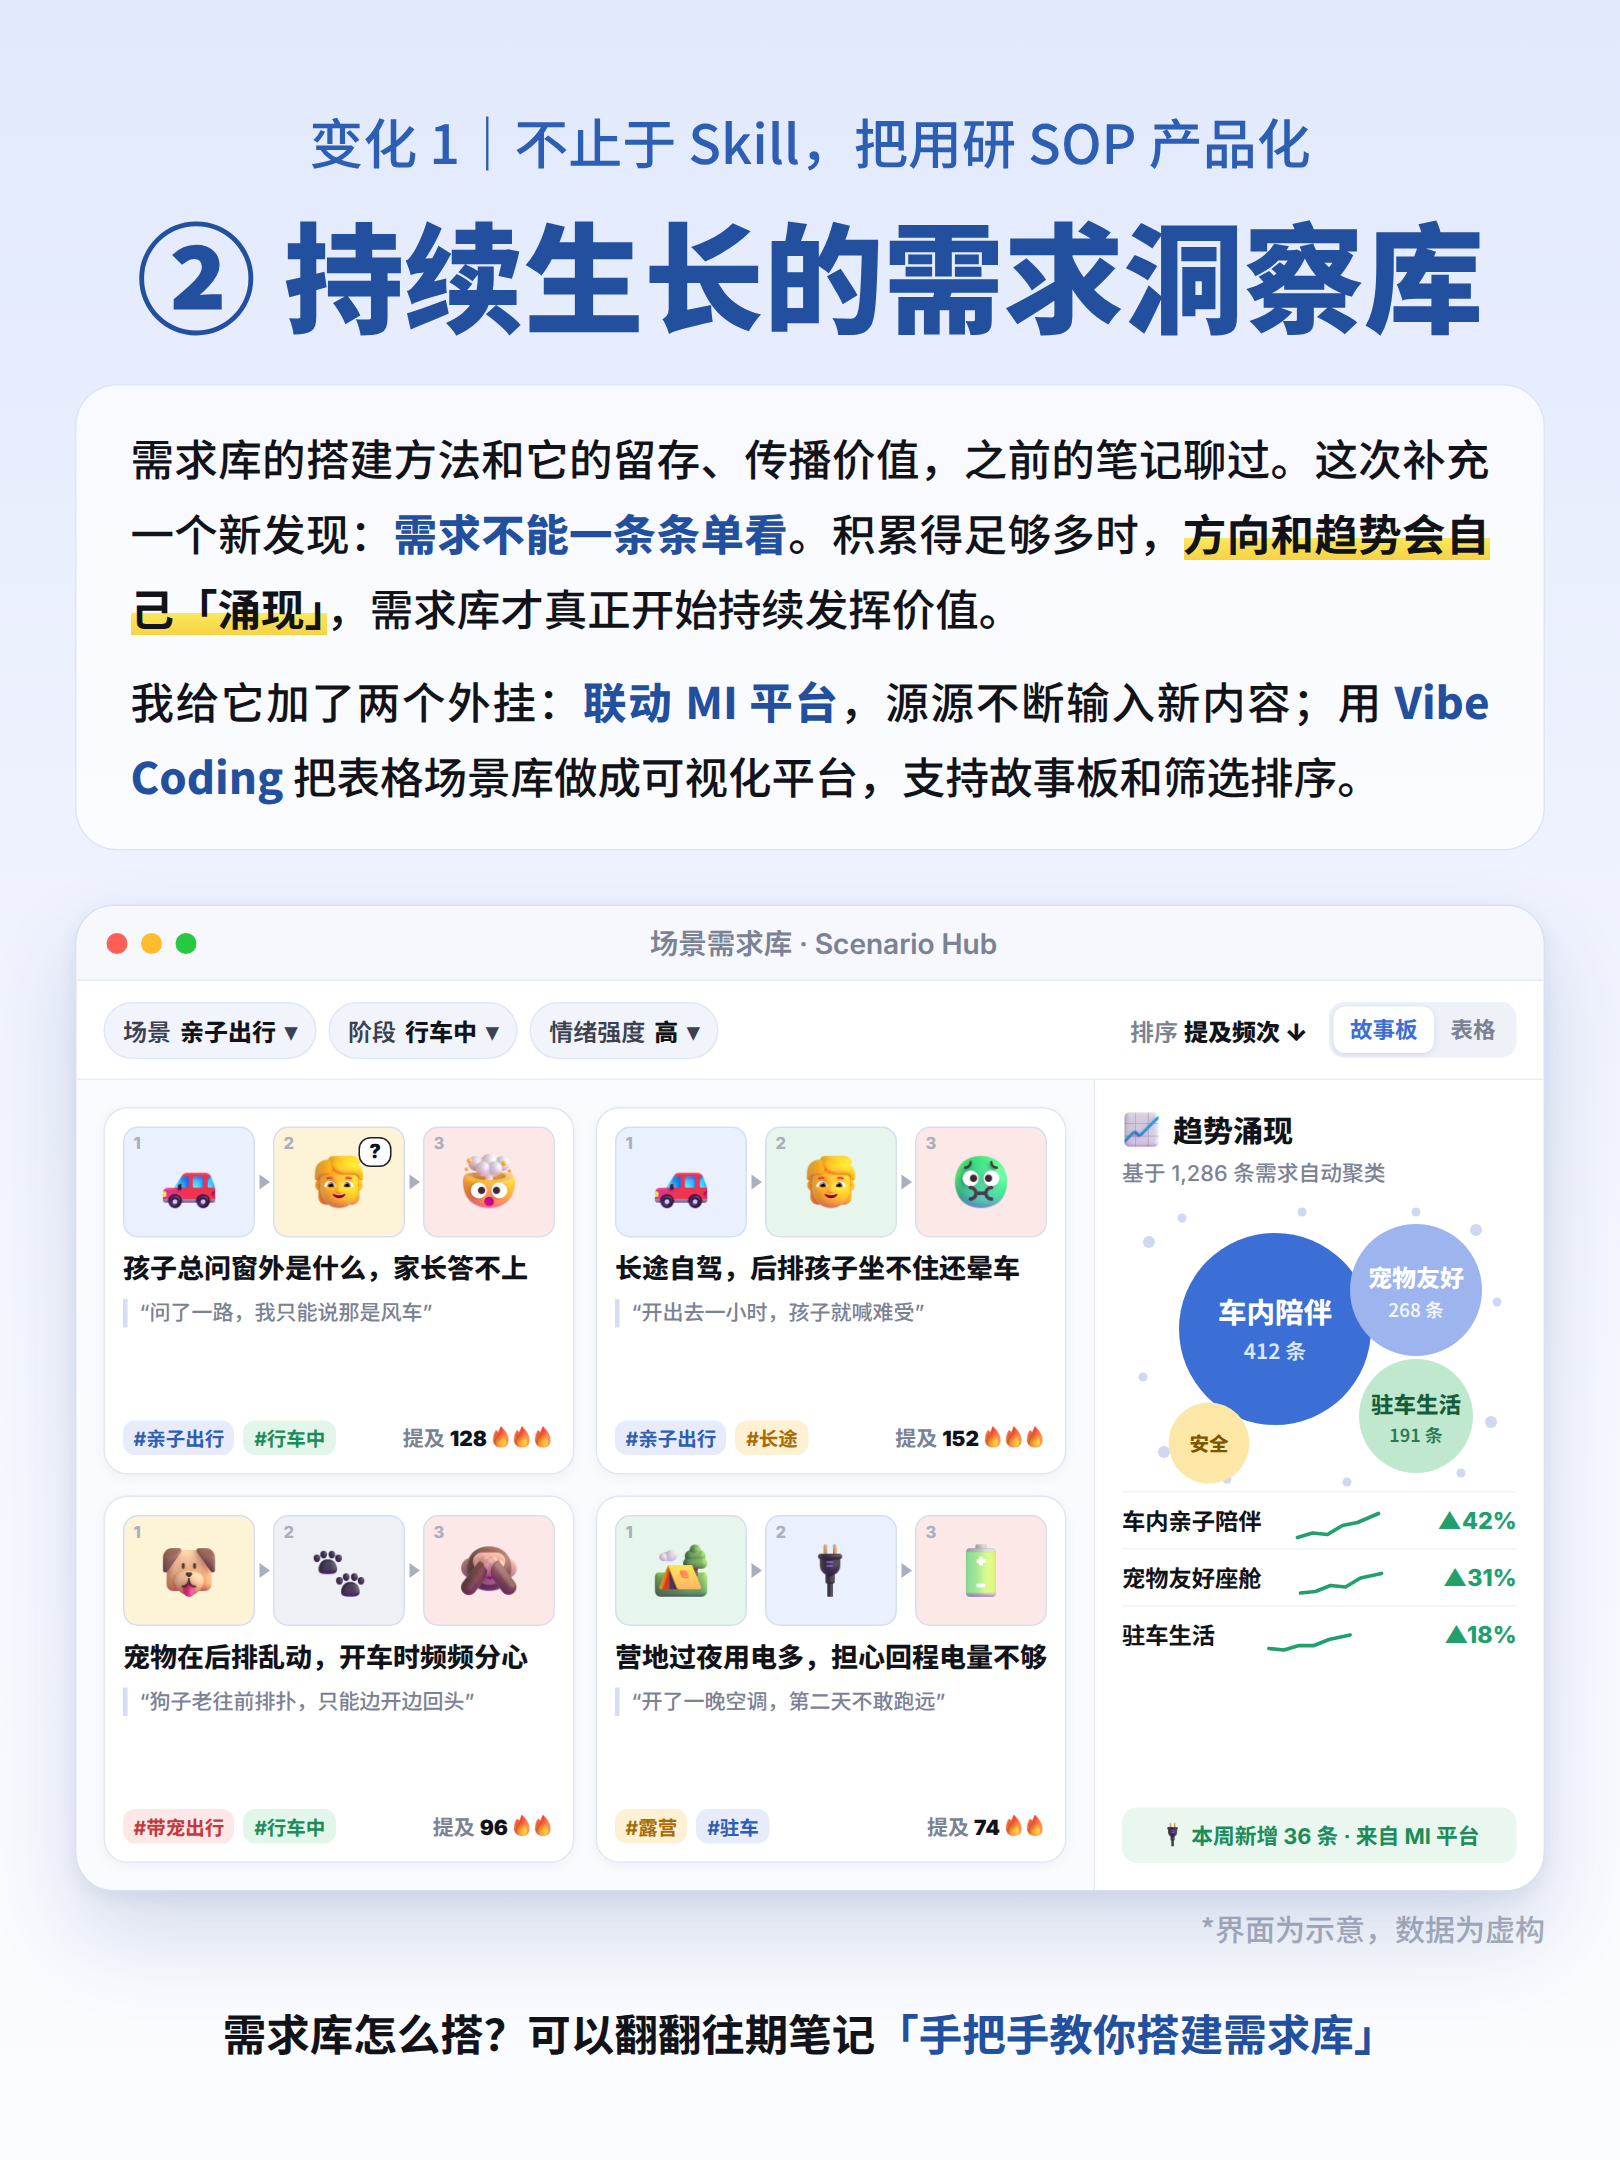
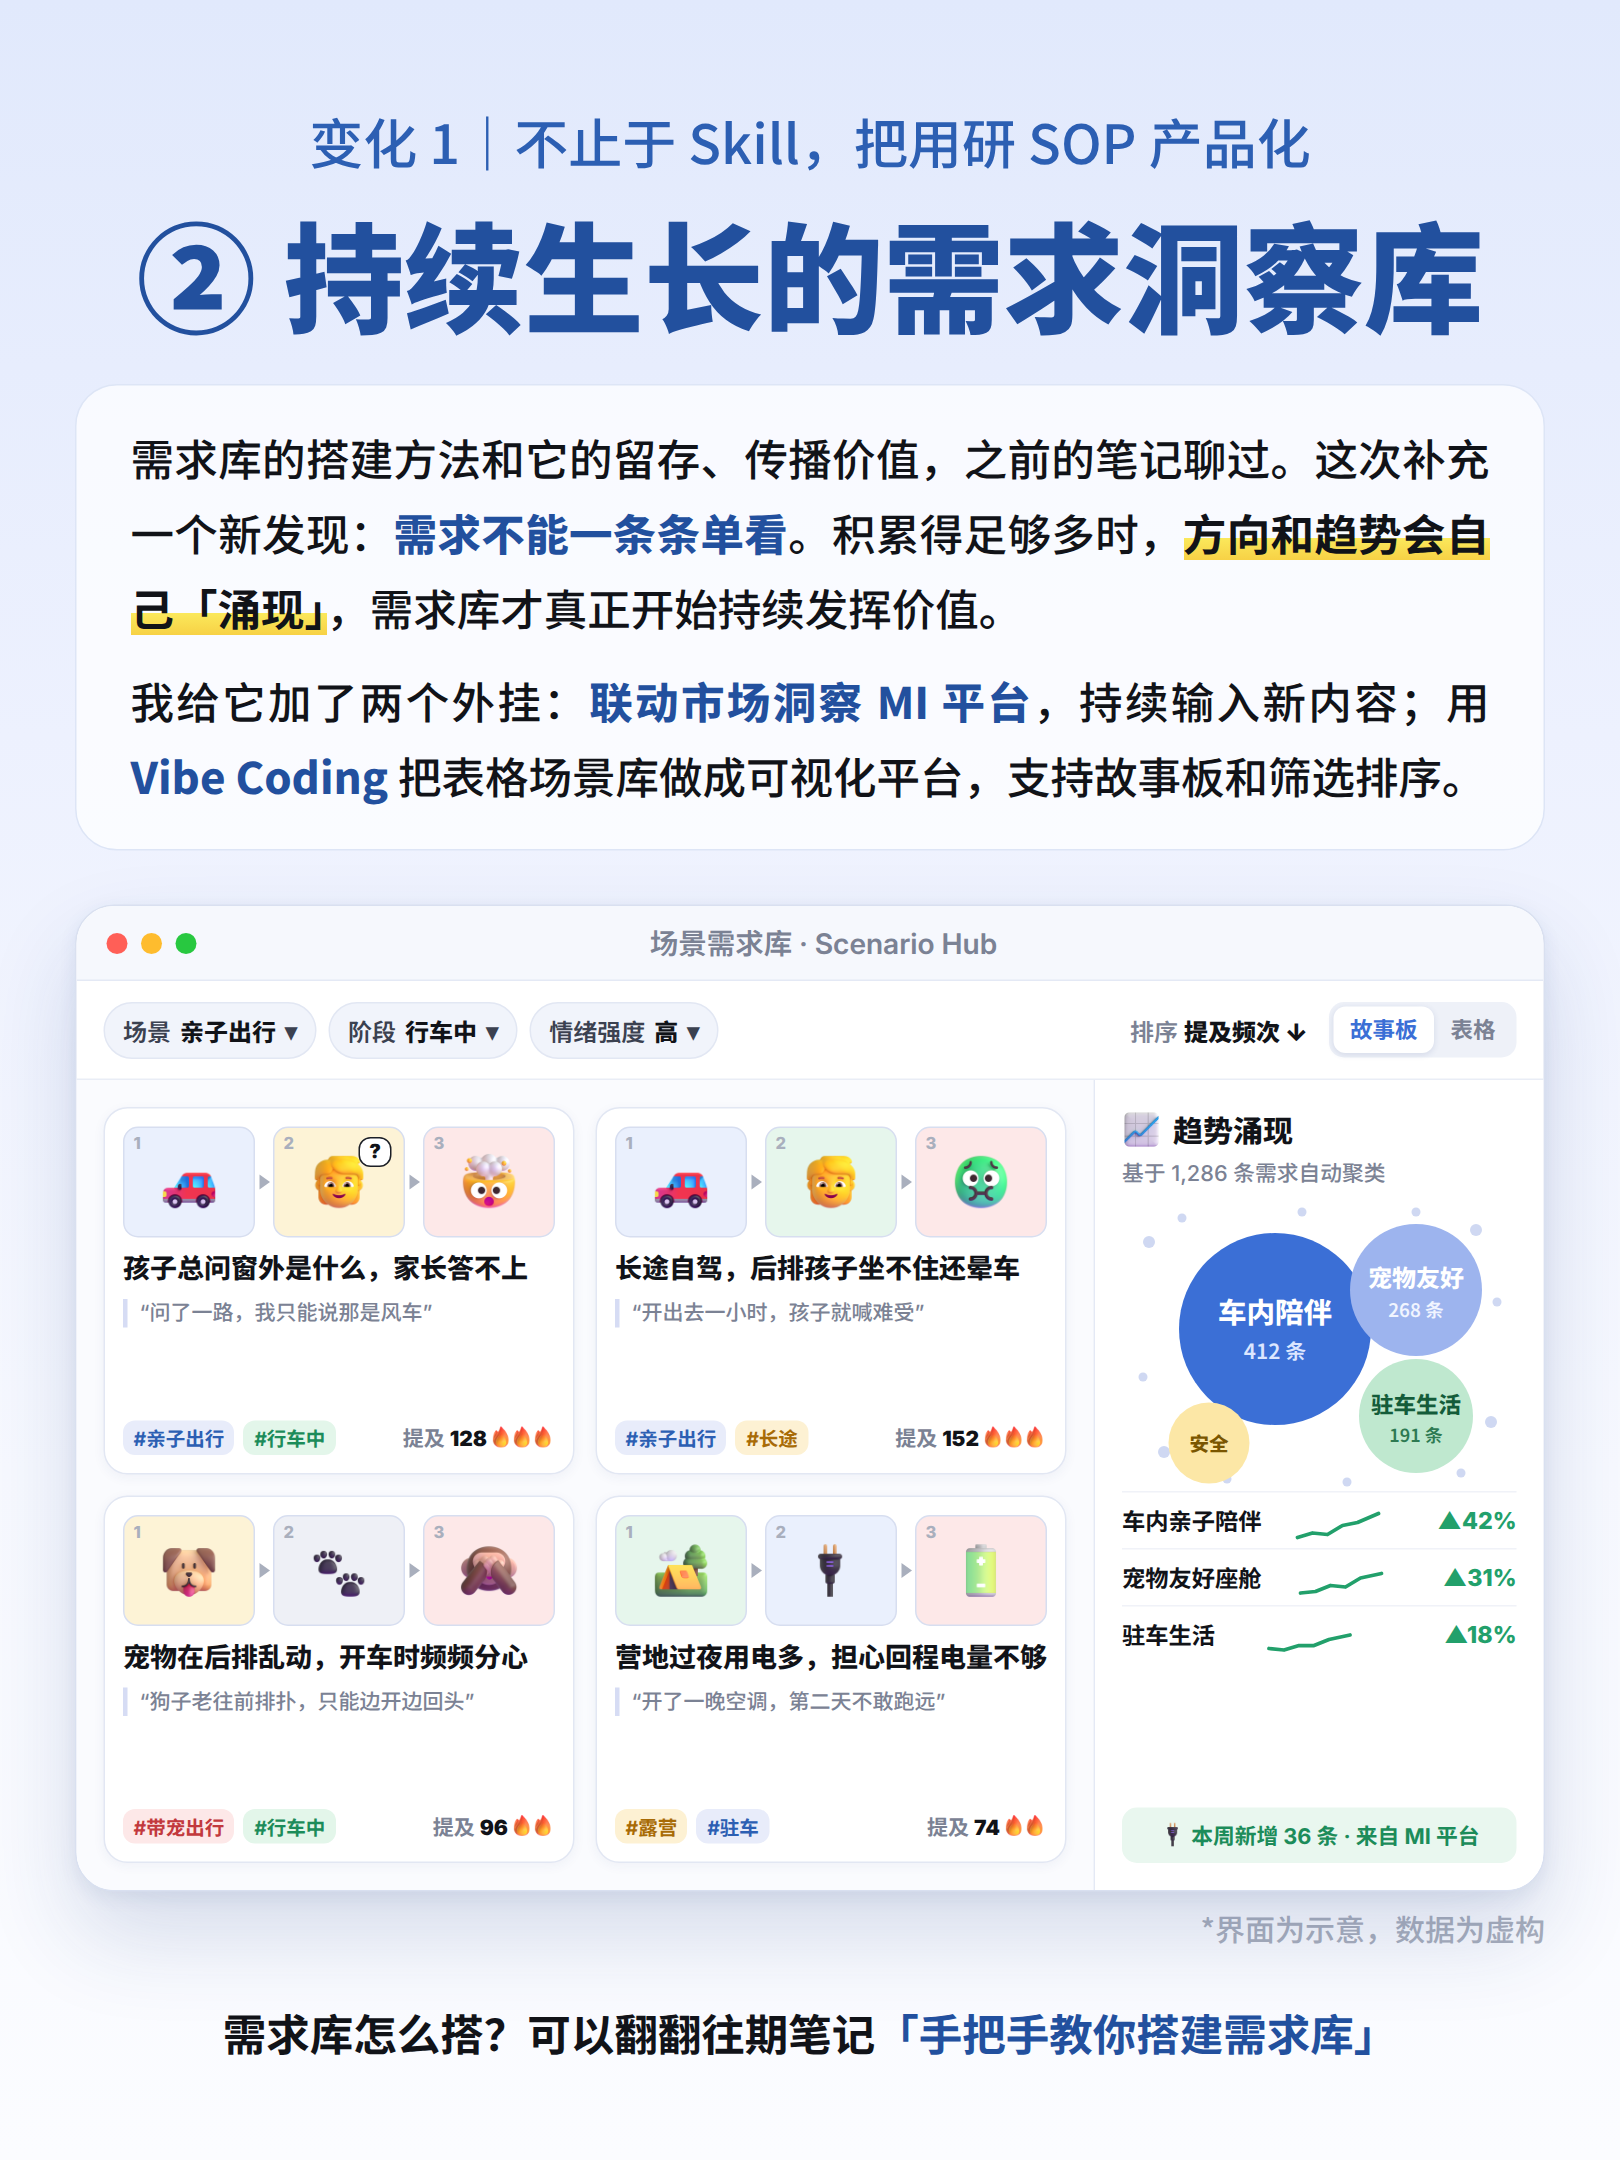
Rename to 市场洞察 MI 平台 and soften desktop-research ROI claim

Changed region(s): [[0.0617, 0.3102, 0.9259, 0.3722]]

diff --git a/xhs-ai-research/pages/02-mi-platform.html b/xhs-ai-research/pages/02-mi-platform.html
@@ -324,20 +324,20 @@
   <body>
     <div class="page inner">
       <div class="kicker">变化 1｜不止于 Skill，把用研 SOP 产品化</div>
-      <div class="h1">① 一套自己的 <span class="slab">MI</span> 平台</div>
+      <div class="h1">① 一套市场洞察 <span class="slab">MI</span> 平台</div>
       <div class="body">
-        <p>项目早期，<b>桌面研究往往是 ROI 最高的方式</b>：先快速、全面地摸清全貌，再决定要不要上重度的访谈和问卷。</p>
+        <p>项目早期，<b>桌面研究是一种投入小、见效快的切入方式</b>：先快速、全面地摸清全貌，再决定要不要上重度的访谈和问卷。</p>
         <p>做法是先<mark>指定高质量信源</mark>：汽车场景的社媒、垂媒、出行生活平台 VOC，加上头部机构的行业研报；再把分析流程<mark>标准化成工具</mark>。换话题、换车型，比如「带宠物出行」，都能<b>按同一套方式快速出洞察</b>。</p>
       </div>
 
       <div class="window">
         <div class="chrome">
           <div class="dots"><i></i><i></i><i></i></div>
-          <div class="title">MI 洞察平台 · Market Intelligence</div>
+          <div class="title">市场洞察 MI 平台 · Market Intelligence</div>
         </div>
         <div class="mi">
           <aside class="side">
-            <div class="logo"><i>MI</i>洞察平台</div>
+            <div class="logo"><i>MI</i>市场洞察</div>
             <div class="nav on"><img class="emo" src="../assets/emoji/dividers.png" />信源库</div>
             <div class="nav"><img class="emo" src="../assets/emoji/compass.png" />专题研究</div>
             <div class="nav"><img class="emo" src="../assets/emoji/barchart.png" />洞察报告</div>

diff --git a/xhs-ai-research/pages/06-summary.html b/xhs-ai-research/pages/06-summary.html
@@ -158,7 +158,7 @@
         <div class="tr">
           <div class="k"><em>01</em>研究方法</div>
           <div class="o">做几个 Skill 单点提效<br />每个专题从头查资料</div>
-          <div class="n"><b>用研 SOP 产品化</b>MI 平台 + 需求洞察库<br />换专题、换车型直接复用</div>
+          <div class="n"><b>用研 SOP 产品化</b>市场洞察 MI 平台 + 需求库<br />换专题、换车型直接复用</div>
         </div>
         <div class="tr">
           <div class="k"><em>02</em>洞察交付</div>
@@ -176,7 +176,7 @@
       <div class="vote">
         <p>想看哪部分展开讲？评论区扣 A / B / C <img class="emo" src="../assets/emoji/pointright.png" style="transform: rotate(90deg)" /></p>
         <div class="opts">
-          <span><i>A</i>MI 平台搭建</span>
+          <span><i>A</i>市场洞察 MI 平台</span>
           <span><i>B</i>需求库可视化</span>
           <span><i>C</i>HTML 报告模板</span>
         </div>

diff --git a/xhs-ai-research/pages/03-insight-library.html b/xhs-ai-research/pages/03-insight-library.html
@@ -235,7 +235,7 @@
       <div class="h1">② 持续生长的需求洞察库</div>
       <div class="body">
         <p>需求库的搭建方法和它的留存、传播价值，之前的笔记聊过。这次补充一个新发现：<b>需求不能一条条单看</b>。积累得足够多时，<mark>方向和趋势会自己「涌现」</mark>，需求库才真正开始持续发挥价值。</p>
-        <p>我给它加了两个外挂：<b>联动 MI 平台</b>，源源不断输入新内容；用 <b>Vibe Coding</b> 把表格场景库做成可视化平台，支持故事板和筛选排序。</p>
+        <p>我给它加了两个外挂：<b>联动市场洞察 MI 平台</b>，持续输入新内容；用 <b>Vibe Coding</b> 把表格场景库做成可视化平台，支持故事板和筛选排序。</p>
       </div>
 
       <div class="window">
